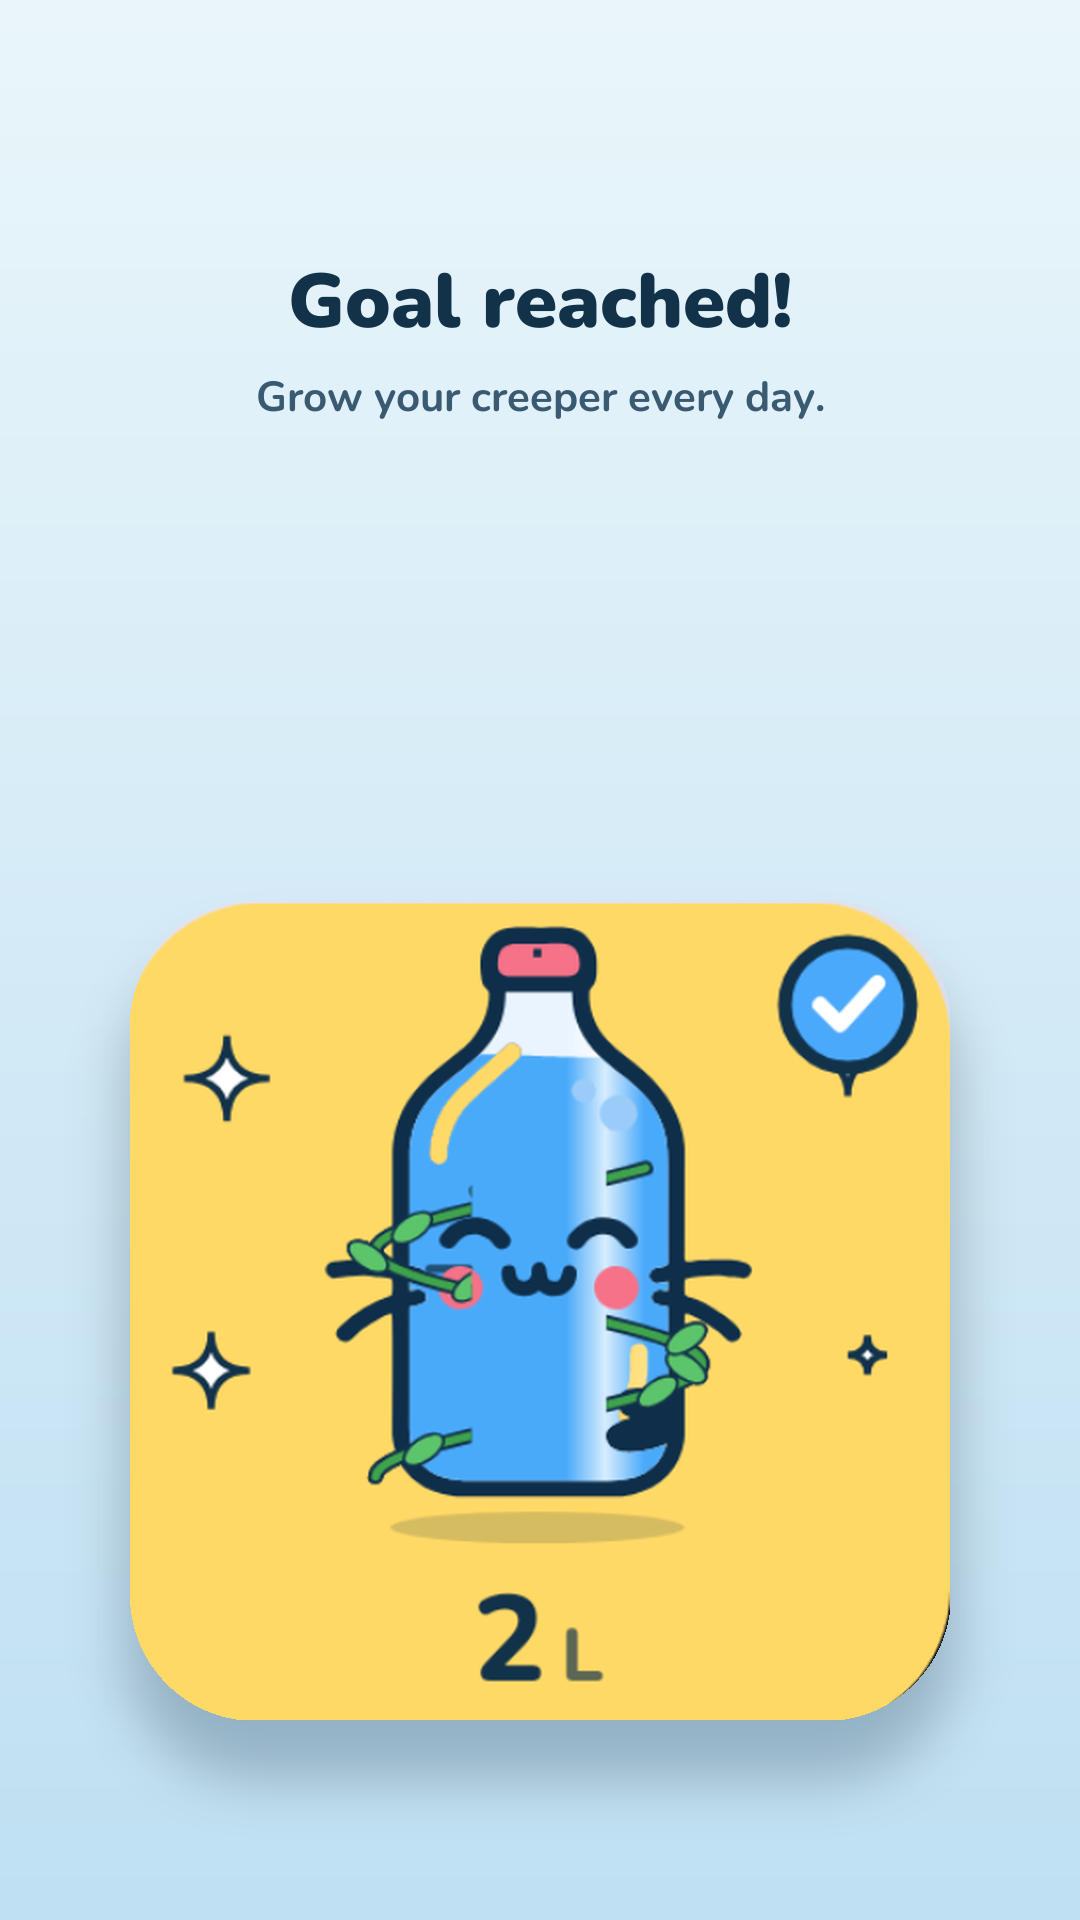
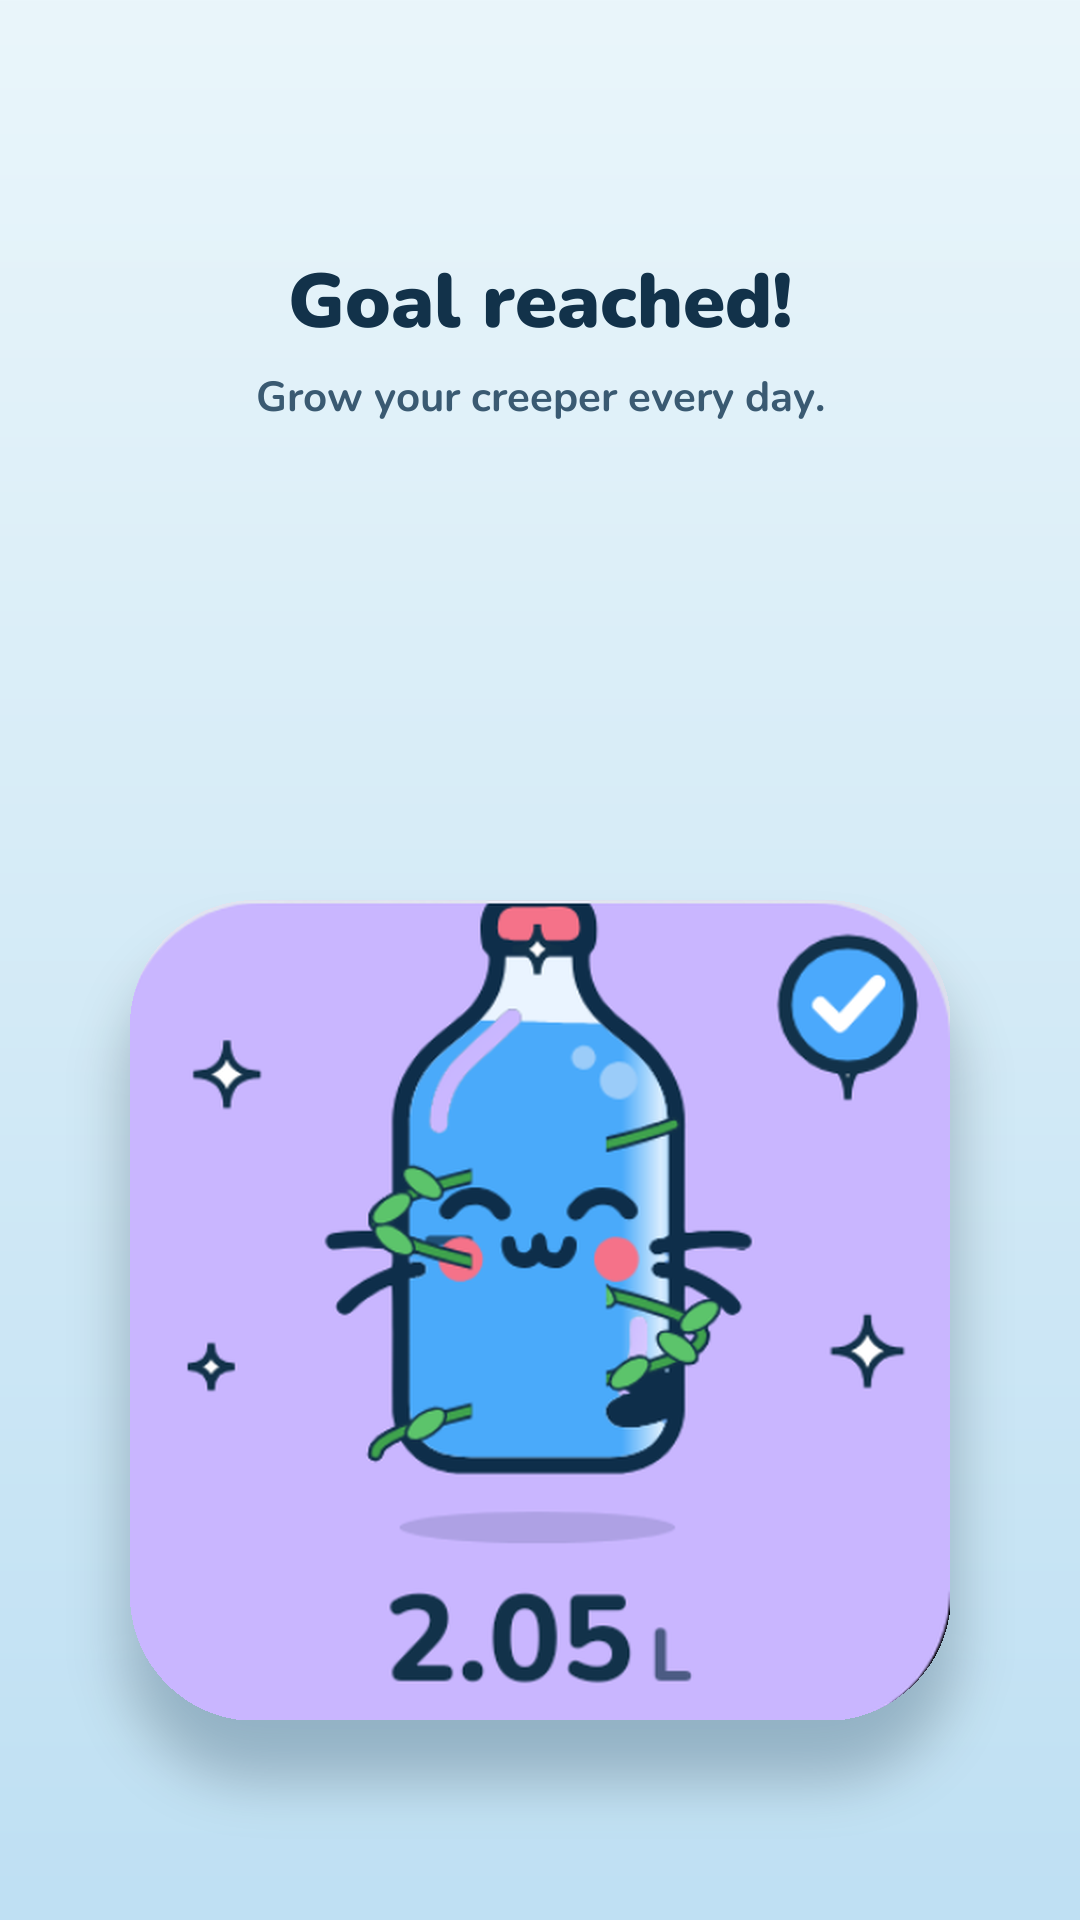
Different background colour for each character; refreshed store screenshots; bump to version code 9 (1.0.8)

Changed region(s): [[0.1222, 0.4688, 0.8861, 0.9062]]

diff --git a/v1/WaterTracker/app/src/main/java/com/developerjabberai/watertracker/widget/BottleRenderer.kt b/v1/WaterTracker/app/src/main/java/com/developerjabberai/watertracker/widget/BottleRenderer.kt
@@ -72,7 +72,13 @@ object BottleRenderer {
     private const val ART_MAX_H = 300f
     private const val ART_TOP = 12f
 
-    private val BG = Color.parseColor("#FFD966")
+    /** Each character has its own background colour, so the widget's colour changes with the day's character. */
+    private val BACKGROUNDS = intArrayOf(
+        Color.parseColor("#FFD966"), // sunny yellow
+        Color.parseColor("#FFB995"), // peach
+        Color.parseColor("#FFB3CF"), // pink
+        Color.parseColor("#C9B6FF"), // lavender
+    )
     private val INK = Color.parseColor("#12324A")
     private val GLASS = Color.parseColor("#EAF4FF")
     private val WATER_LIGHT = Color.parseColor("#9BCCF9")
@@ -97,8 +103,9 @@ object BottleRenderer {
         val c = Canvas(bmp)
         val p = Paint(Paint.ANTI_ALIAS_FLAG)
 
+        val artIndex = if (f.art >= 0) f.art else WaterStore(context).artToday()
         val card = RectF(0f, 0f, SIZE.toFloat(), SIZE.toFloat())
-        p.color = BG
+        p.color = BACKGROUNDS[artIndex.coerceIn(0, BACKGROUNDS.size - 1)]
         c.drawRoundRect(card, 70f, 70f, p)
         if (f.flash > 0f) {
             p.color = f.flashColor; p.alpha = (255 * f.flash.coerceIn(0f, 1f)).toInt()
@@ -106,7 +113,7 @@ object BottleRenderer {
             p.alpha = 255
         }
 
-        val art = ArtLibrary.get(context, if (f.art >= 0) f.art else WaterStore(context).artToday())
+        val art = ArtLibrary.get(context, artIndex)
         val s = min(ART_MAX_W / art.outline.width(), ART_MAX_H / art.outline.height())
         val cx = SIZE / 2f
         val feetY = ART_TOP + art.outline.height() * s

diff --git a/v1/WaterTracker/app/src/main/java/com/developerjabberai/watertracker/data/WaterStore.kt b/v1/WaterTracker/app/src/main/java/com/developerjabberai/watertracker/data/WaterStore.kt
@@ -69,6 +69,11 @@ class WaterStore(context: Context) {
         return old to new
     }
 
+    /** Testing only: lets a debuggable build fire the reminder at any hour. Always false in release builds. */
+    fun anyHourForTesting(context: Context): Boolean =
+        (context.applicationInfo.flags and android.content.pm.ApplicationInfo.FLAG_DEBUGGABLE) != 0 &&
+            prefs.getBoolean("test_any_hour", false)
+
     /** So we only ask for the notification permission once. */
     var notificationsAsked: Boolean
         get() = prefs.getBoolean("notifications_asked", false)

diff --git a/v1/WaterTracker/app/src/main/java/com/developerjabberai/watertracker/domain/NudgeController.kt b/v1/WaterTracker/app/src/main/java/com/developerjabberai/watertracker/domain/NudgeController.kt
@@ -19,7 +19,7 @@ object NudgeController {
         val total = store.todayMl()
         val behind = Pace.fraction(now) * store.goalMl - total
 
-        if (!Pace.isAwake(now) || total >= store.goalMl || behind < BEHIND_THRESHOLD_ML) {
+        if (!(Pace.isAwake(now) || store.anyHourForTesting(context)) || total >= store.goalMl || behind < BEHIND_THRESHOLD_ML) {
             store.nudgePending = false
             WaterWidgetProvider.refresh(context)
             return

diff --git a/v1/store/play-console-answers.md b/v1/store/play-console-answers.md
@@ -1,6 +1,6 @@
 # Google Play Console: answers to copy in
 
-App ID `com.developerjabberai.watertracker` · Title "Widget: Water Tracker & Remind" (app name on the phone: "Water Tracker") · version 1.0.7 (code 8) · signed AAB at
+App ID `com.developerjabberai.watertracker` · Title "Widget: Water Tracker & Remind" (app name on the phone: "Water Tracker") · version 1.0.8 (code 9) · signed AAB at
 `v1/WaterTracker/app/build/outputs/bundle/release/app-release.aab`
 
 ## 1. Create the app
